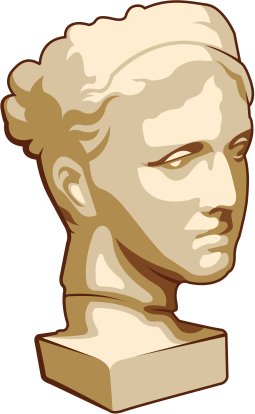
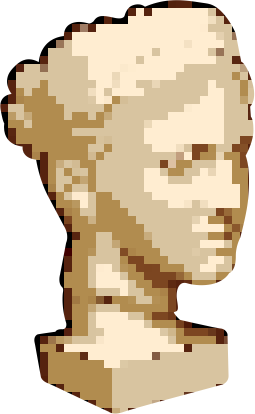
Update library

diff --git a/script.js b/script.js
@@ -39,9 +39,12 @@ loadSprite("col", "assets/images/obstacle/col.png");
 loadSprite("crab", "assets/images/obstacle/crab.png");
 loadSprite("dinosaur", "assets/images/obstacle/dinosaur.png");
 loadSprite("flower", "assets/images/obstacle/flower.png");
-loadSprite("flowera", "assets/images/obstacle/flower.png");
+loadSprite("flowera", "assets/images/obstacle/flowera.png");
+loadSprite("flowerb", "assets/images/obstacle/flowerb.png");
 loadSprite("godl", "assets/images/obstacle/godl.png");
+loadSprite("greek", "assets/images/obstacle/greek.png");
 loadSprite("heart", "assets/images/obstacle/heart.png");
+loadSprite("harp", "assets/images/obstacle/harp.png");
 loadSprite("hedge", "assets/images/obstacle/hedge.png");
 loadSprite("hedgepix", "assets/images/obstacle/hedgepix.png");
 loadSprite("horsea", "assets/images/obstacle/horsea.png");
@@ -49,7 +52,7 @@ loadSprite("olive", "assets/images/obstacle/olive.png");
 loadSprite("plate", "assets/images/obstacle/plate.png");
 loadSprite("scale", "assets/images/obstacle/scale.png");
 loadSprite("statue", "assets/images/obstacle/statue.png");
-loadSprite("torch", "assets/images/obstacle/torch.png");
+loadSprite("torcha", "assets/images/obstacle/torcha.png");
 loadSprite("tree", "assets/images/obstacle/tree.png");
 loadSprite("treea", "assets/images/obstacle/treea.png");
 loadSprite("vase", "assets/images/obstacle/vase.png");
@@ -60,6 +63,7 @@ loadSprite("vased", "assets/images/obstacle/vased.png");
 loadSprite("vasee", "assets/images/obstacle/vasee.png");
 loadSprite("venus", "assets/images/obstacle/venus.png");
 loadSprite("wave", "assets/images/obstacle/wave.png");
+
 
 //CONSTATNTS
 const FLOOR_HEIGHT = 50;
@@ -393,9 +397,9 @@ scene("game", () => {
 
     // Define obstacles
     const obstacle = choose(["barrier", "cactus", "cactusone", "circle",
-    "coin", "col", "crab", "dinosaur", "flower", "flowera",
-    "godl", "greek", "heart", "hedge", "hedgepix", "horsea", "olive",
-    "plate", "scale", "statue", "torch", "tree", "treea", "vase",
+    "coin", "col", "crab", "dinosaur", "flower", "flowera", "flowerb",
+    "godl", "greek", "heart", "harp", "hedge", "hedgepix", "horsea", "olive",
+    "plate", "scale", "statue", "torcha", "tree", "treea", "vase",
     "vasea", "vaseb", "vasec", "vased", "vasee", "venus", "wave"]);
 
     
